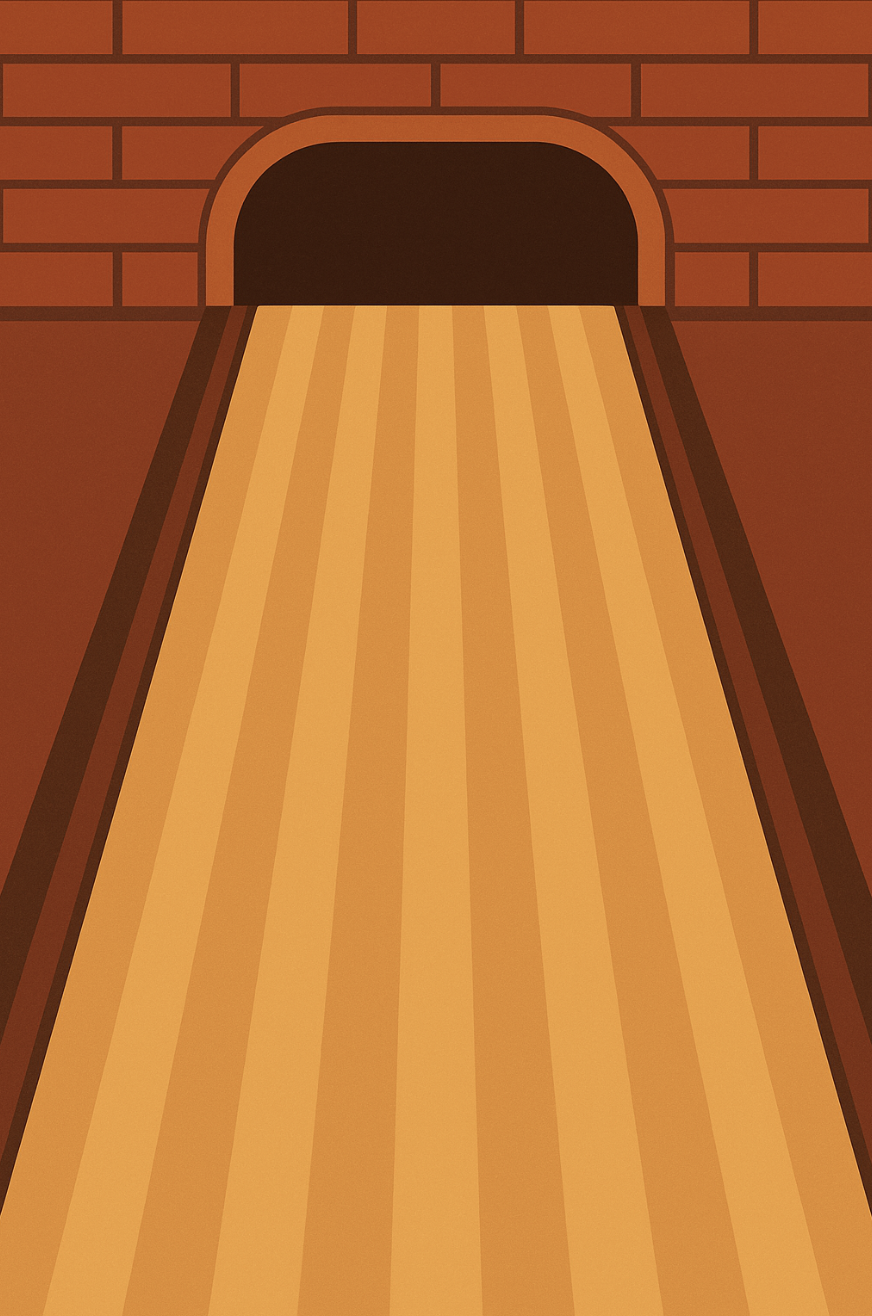
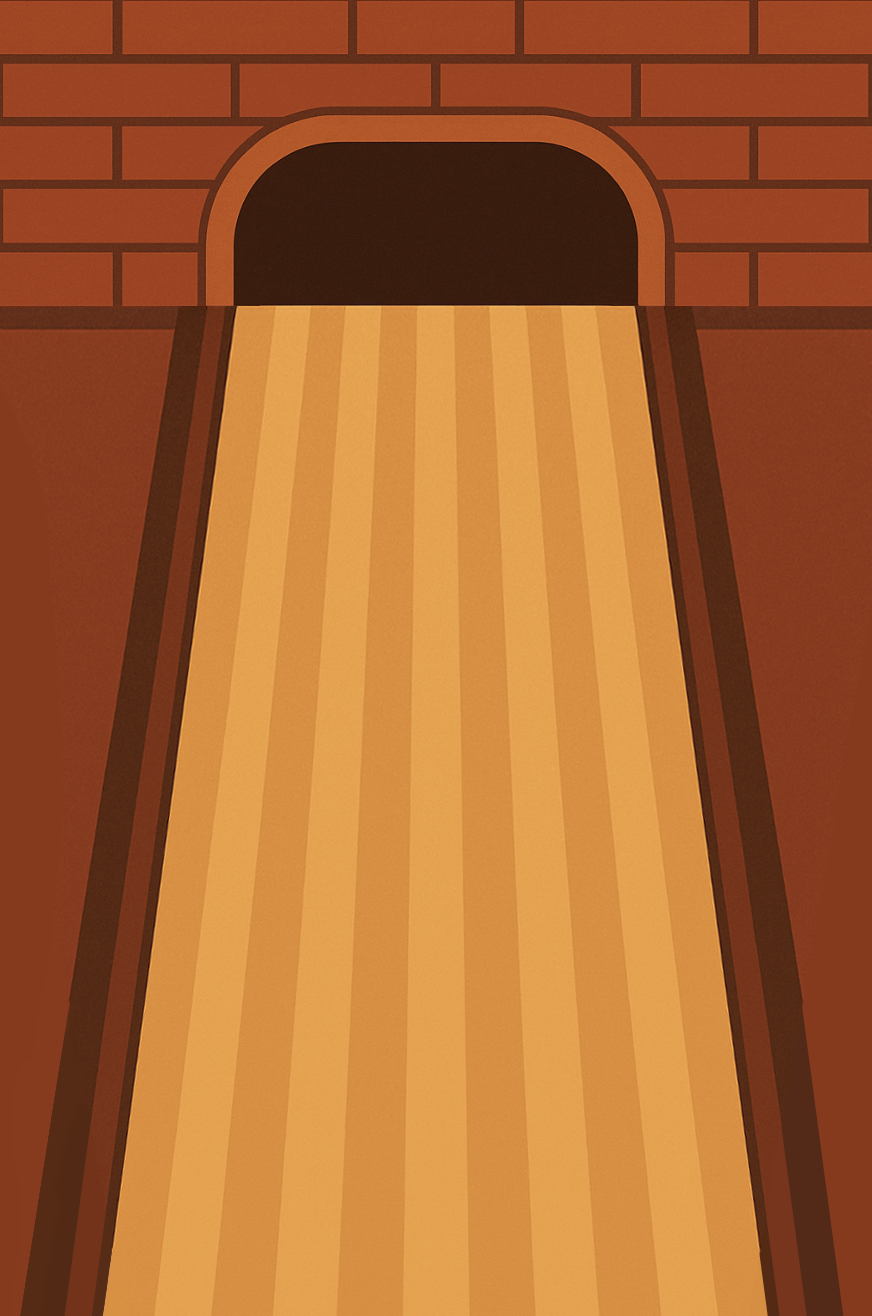
Adjust background

Changed region(s): [[0.7122, 0.2181, 1.0, 1.0], [0.0, 0.2181, 0.3096, 1.0]]

diff --git a/lib/ui/game_screen.dart b/lib/ui/game_screen.dart
@@ -73,15 +73,10 @@ class _GameScreenState extends State<GameScreen> {
 
         /// Game content
         Container(
-          margin: EdgeInsets.symmetric(horizontal: 35, vertical: 95),
+          margin: EdgeInsets.symmetric(horizontal: 50, vertical: 96),
           width: widget.containerWidth,
           height: widget.containerHeight,
           color: Colors.white.withOpacity(0),
-
-/*          margin: EdgeInsets.symmetric(horizontal: 50, vertical: 80),
-          width: widget.containerWidth,
-          height: widget.containerHeight,
-          color: Colors.brown[200],*/
 
           child: Stack(
             alignment: Alignment.center,

diff --git a/lib/bowling_game_page.dart b/lib/bowling_game_page.dart
@@ -14,8 +14,8 @@ class BowlingGamePage extends StatefulWidget {
 
 class _BowlingGamePageState extends State<BowlingGamePage>
     with TickerProviderStateMixin {
-  final double containerWidth = 330.0;
-  final double containerHeight = 600.0;
+  final double containerWidth = 294.0;
+  final double containerHeight = 650.0;
   final double pinScale = 1.8;
 
   late GameController gameController;
@@ -73,7 +73,7 @@ class _BowlingGamePageState extends State<BowlingGamePage>
                   style: const TextStyle(
                     fontSize: 20,
                     fontWeight: FontWeight.bold,
-                    color: Colors.black87,
+                    color: Colors.white,
                   ),
                 ),
               ),